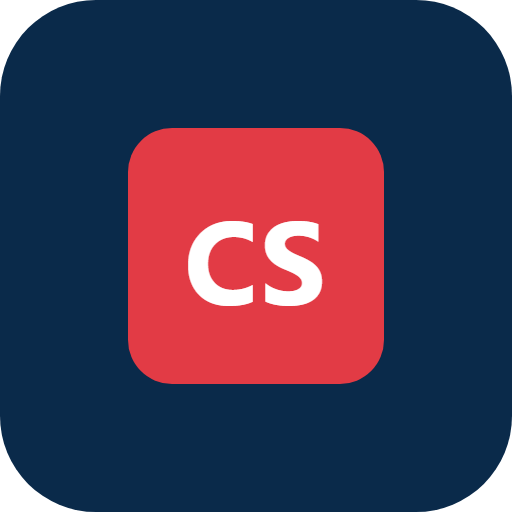
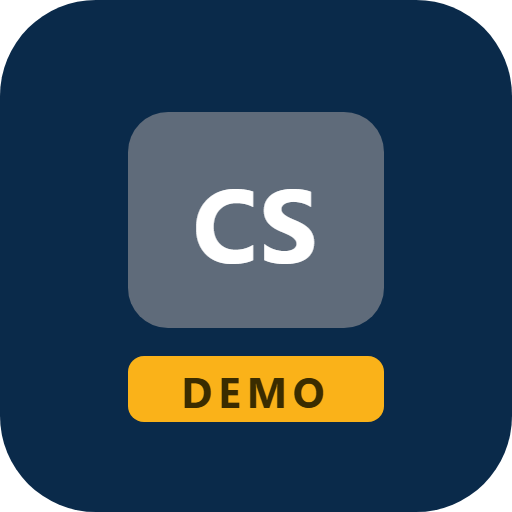
Demonstracao com armazenamento e icone proprios
Os dois paineis vivem na mesma origem (felipecapixaba.github.io) e o
localStorage e por ORIGEM, nao por caminho: com a mesma chave, abrir a
demonstracao trocava a empresa ativa da ferramenta e as planilhas de
cliente ficavam no mesmo armazenamento que a pagina publica le. Agora a
demo usa painelObraDemo:*.

O icone tambem passa a ser distinto (tarja DEMO). Instalados no mesmo
celular, dois icones iguais levam a abrir a ferramenta na frente de quem
ainda nao comprou.

Changed region(s): [[0.25, 0.2188, 0.75, 0.8438]]

diff --git a/index.html b/index.html
@@ -2343,9 +2343,6 @@ const DADOS_DEMO = `Data,Obra,Etapa,Fornecedor,Tipo,Descrição,Valor,Orçado,St
    ============================================================ */
 const App = (() => {
 
-  const CHAVE_LISTA = 'painelObra:empresas';
-  const CHAVE_ATUAL = 'painelObra:atual';
-
   /* Build de DEMONSTRAÇÃO: abre direto na construtora fictícia e não deixa
      carregar planilha nenhuma. É a versão que vai para o público e para a
      calculadora — mostra o produto funcionando sem entregá-lo.
@@ -2353,6 +2350,15 @@ const App = (() => {
      Sendo trava de navegador, ela não é segredo: quem ler o código-fonte acha o
      caminho. Serve para o funil, não como proteção. */
   const MODO_DEMO = true;    // [build] versão pública de demonstração
+
+  /* Demonstração e ferramenta moram na MESMA origem (felipecapixaba.github.io),
+     e localStorage é por origem — o caminho não separa nada. Com a mesma chave,
+     abrir a demonstração trocaria a empresa ativa da ferramenta, e as planilhas
+     de cliente ficariam no mesmo armazenamento que a página pública lê. Cada
+     build tem o seu. */
+  const PREFIXO = MODO_DEMO ? 'painelObraDemo' : 'painelObra';
+  const CHAVE_LISTA = PREFIXO + ':empresas';
+  const CHAVE_ATUAL = PREFIXO + ':atual';
 
   /* Para onde vai quem se interessa na demonstração. */
   const WHATS = '5527992492070';
